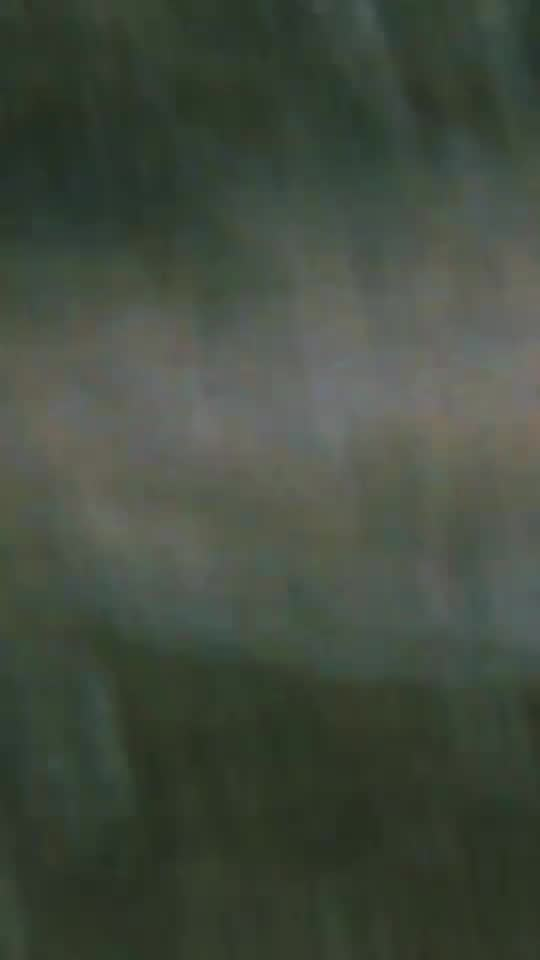
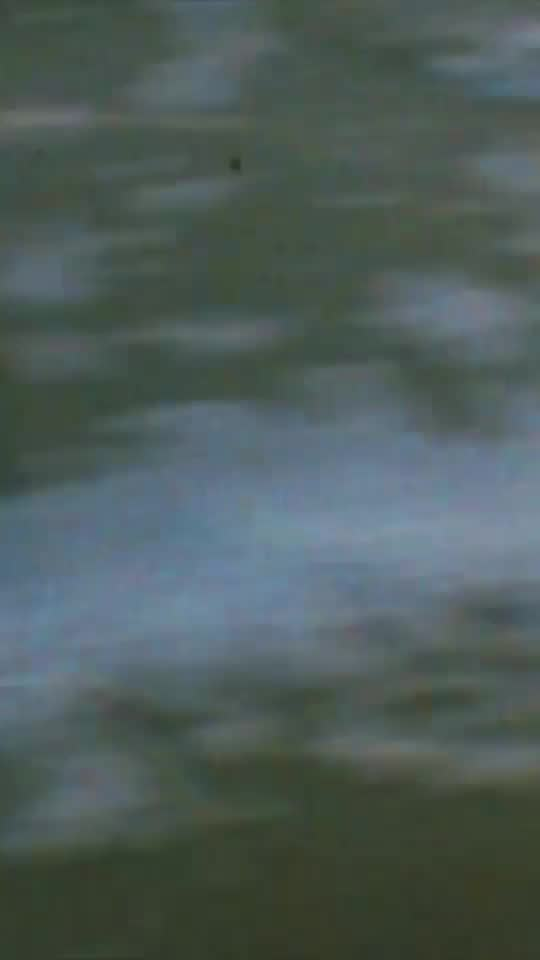
v89: traces visible from the start with its own first frame, play retried as data arrives, ?clipdebug readout
Claude-Session: https://claude.ai/code/session_016NV4UU8Riei8hDa4g68j8u

diff --git a/index.html b/index.html
@@ -891,8 +891,8 @@
 
   /* v88 — on portrait screens the first film is a real, silent video file: phones autoplay it
      on arrival, no youtube marks, no waiting for a tap. the youtube film stays hidden underneath */
-  .vclip{position:absolute;inset:0;width:100%;height:100%;object-fit:cover;z-index:1;opacity:0;transition:opacity 1s ease;pointer-events:none;}
-  .vclip.on{opacity:1;}
+  /* visible from the start, showing its own first frame — some safari versions won't autoplay a video they think is hidden */
+  .vclip{position:absolute;inset:0;width:100%;height:100%;object-fit:cover;z-index:1;pointer-events:none;background:transparent;}
   .vslide.clipmode iframe{display:none !important;}
 </style>
 </head>
@@ -2684,8 +2684,10 @@ const VERSIONS=[
    t:'one voice at a time: the note waits until no other hint is showing, and the others hold while it speaks.'},
   {v:'v87', d:'28 oct 2026', url:'https://sof-studio-v87.vercel.app',
    t:'pressing the mark no longer flashes a dark box around it.'},
-  {v:'v88', d:'now', url:null,
+  {v:'v88', d:'28 oct 2026', url:'https://sof-studio-v88.vercel.app',
    t:'on phones the door opens onto traces — a real film loop that plays the moment you arrive.'},
+  {v:'v89', d:'now', url:null,
+   t:'traces shows its own first frame from the start and keeps asking to play as it loads.'},
 ];
 dirHTML += `<div class="dir-sect"><h2>07 <span class="big">versions</span></h2>
   <div class="dir-note">this site is developed in public and every version stays live. each row opens the site as it was, frozen mid-thought — the record of the model being worked out.</div>`;
@@ -3317,12 +3319,23 @@ const HOLD_IMAGES = [   /* the hold screen's floating photographs, in scenes' ar
     v.preload='auto'; v.poster='media/intro-traces-poster.jpg';
     const big=innerWidth>=700 && (window.devicePixelRatio||1)>=2;
     v.src=big?'media/intro-traces-720.mp4':'media/intro-traces-540.mp4';
-    v.addEventListener('playing',()=>v.classList.add('on'));
     const st=sl.querySelector('.vstill'); sl.insertBefore(v, st?st.nextSibling:sl.firstChild);
-    const go=()=>{ try{ const p=v.play(); if(p&&p.catch) p.catch(()=>{}); }catch(e){} };
-    go();
+    let lastErr='';
+    const go=()=>{ if(!v.paused) return; try{ const p=v.play(); if(p&&p.catch) p.catch(e=>{ lastErr=e&&e.name||'refused'; }); }catch(e){ lastErr=e.name; } };
+    /* ask again as data arrives — an early play() before any frames can be turned down — and keep
+       asking for a few seconds; a tap anywhere also starts it */
+    go(); ['loadedmetadata','loadeddata','canplay','canplaythrough'].forEach(ev=>v.addEventListener(ev,go));
+    let tries=0; const iv=setInterval(()=>{ if(!v.paused||++tries>20){ clearInterval(iv); return; } go(); },500);
     ['touchend','click','pointerdown'].forEach(g=>document.addEventListener(g,go,{once:true,capture:true}));
     document.addEventListener('visibilitychange',()=>{ if(!document.hidden) go(); });
+    /* ?clipdebug shows what the clip is doing, for checking on a real phone */
+    if(/[?&]clipdebug/.test(location.search)){
+      const d=document.createElement('div'); d.style.cssText='position:fixed;left:8px;bottom:8px;z-index:9999;font:10px/1.4 monospace;color:#f2f2f0;background:rgba(10,10,10,.6);padding:4px 6px;pointer-events:none';
+      document.body.appendChild(d);
+      const t0=performance.now(), states=['nothing','metadata','current','future','enough'];
+      setInterval(()=>{ const b=v.buffered.length?v.buffered.end(v.buffered.length-1).toFixed(1):'0';
+        d.textContent=`clip ${v.paused?'PAUSED':'playing'} · t ${v.currentTime.toFixed(1)}s · data ${states[v.readyState]} · buffered ${b}s · ${lastErr||'no refusal'} · ${((performance.now()-t0)/1000).toFixed(0)}s since load`; },250);
+    }
   }
   function watch(p,k){
     if(!p||p._watched||!p.addEventListener) return; p._watched=1;
